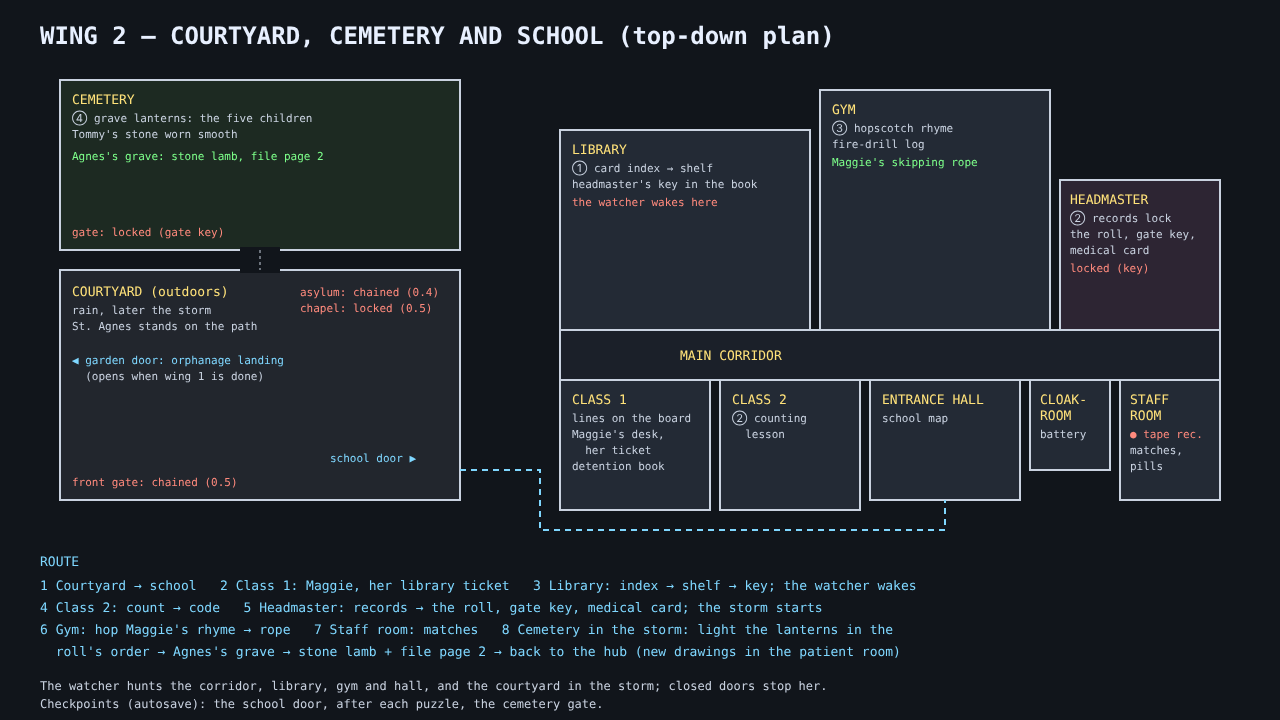
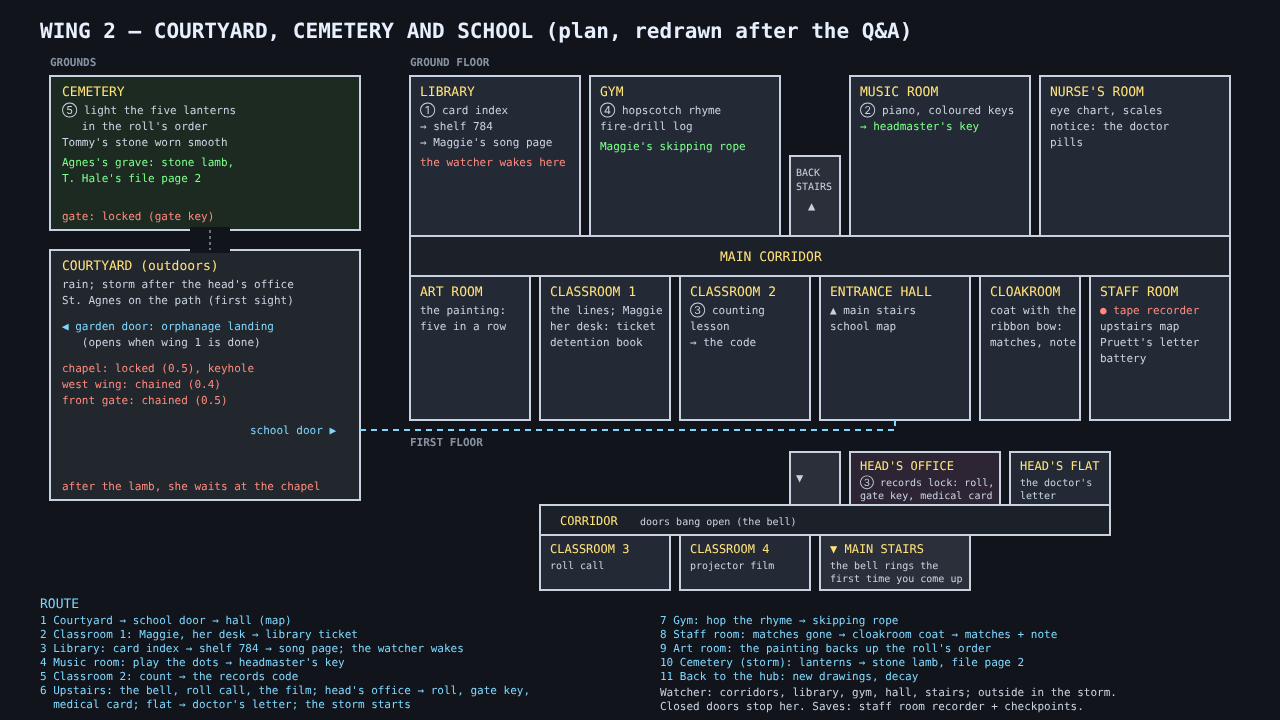
0.2.12: redraw the wing 2 plan after the Q&A
The plan now shows the grounds, the school's ground floor (library,
gym, back stairs, music room, nurse's room, art room, Classes 1-2,
entrance hall, cloakroom, staff room) and the first floor (corridor,
Classes 3-4, the head's office and flat, main stairs), with each room's
puzzle, documents and set piece, and the eleven-step route. For owner
approval before part A is built.

Claude-Session: https://claude.ai/code/session_01Kt2ajWcwzg7QhP3mDk3ZUu

diff --git a/docs/mockups/source-0.3/wing_map.html b/docs/mockups/source-0.3/wing_map.html
@@ -1,84 +1,152 @@
 <!doctype html><meta charset="utf-8">
 <style>body{margin:0;background:#11151b}svg{display:block}text{white-space:pre}</style>
-<!-- Top-down plan of wing 2 (courtyard, cemetery and school) for owner approval. -->
+<!-- Top-down plan of wing 2 for owner approval, redrawn 2026-10-14 after the Q&A: grounds,
+     the school's ground floor and first floor. -->
 <svg width="1280" height="720" viewBox="0 0 1280 720" font-family="DejaVu Sans Mono, monospace">
   <rect width="1280" height="720" fill="#11151b"/>
-  <text x="40" y="44" fill="#e8f0ff" font-size="24" font-weight="bold">WING 2 — COURTYARD, CEMETERY AND SCHOOL (top-down plan)</text>
-  <!-- Outdoors -->
+  <text x="40" y="38" fill="#e8f0ff" font-size="21" font-weight="bold">WING 2 — COURTYARD, CEMETERY AND SCHOOL (plan, redrawn after the Q&amp;A)</text>
+  <g fill="#8892a2" font-size="11" font-weight="bold">
+    <text x="50" y="66">GROUNDS</text><text x="410" y="66">GROUND FLOOR</text><text x="410" y="446">FIRST FLOOR</text>
+  </g>
+
+  <!-- Grounds -->
   <g stroke="#c9d2e0" stroke-width="2">
-    <rect x="60" y="80" width="400" height="170" fill="#1d2a22"/>
-    <rect x="60" y="270" width="400" height="230" fill="#22262d"/>
+    <rect x="50" y="76" width="310" height="154" fill="#1d2a22"/>
+    <rect x="50" y="250" width="310" height="250" fill="#22262d"/>
   </g>
-  <g stroke="#11151b" stroke-width="6"><line x1="240" y1="250" x2="280" y2="250"/><line x1="240" y1="270" x2="280" y2="270"/></g>
-  <line x1="260" y1="250" x2="260" y2="270" stroke="#c9d2e0" stroke-dasharray="3 3"/>
-  <!-- School -->
+  <g stroke="#11151b" stroke-width="6"><line x1="190" y1="230" x2="230" y2="230"/><line x1="190" y1="250" x2="230" y2="250"/></g>
+  <line x1="210" y1="230" x2="210" y2="250" stroke="#c9d2e0" stroke-dasharray="3 3"/>
+
+  <!-- Ground floor -->
   <g stroke="#c9d2e0" stroke-width="2" fill="#232a35">
-    <rect x="560" y="330" width="660" height="50" fill="#1b2029"/>
-    <rect x="560" y="130" width="250" height="200"/>
-    <rect x="820" y="90" width="230" height="240"/>
-    <rect x="1060" y="180" width="160" height="150" fill="#2d2533"/>
-    <rect x="560" y="380" width="150" height="130"/>
-    <rect x="720" y="380" width="140" height="130"/>
-    <rect x="870" y="380" width="150" height="120"/>
-    <rect x="1030" y="380" width="80" height="90"/>
-    <rect x="1120" y="380" width="100" height="120"/>
+    <rect x="410" y="236" width="820" height="40" fill="#1b2029"/>
+    <rect x="410" y="76" width="170" height="160"/>
+    <rect x="590" y="76" width="190" height="160"/>
+    <rect x="790" y="156" width="50" height="80" fill="#2a2f3a"/>
+    <rect x="850" y="76" width="180" height="160"/>
+    <rect x="1040" y="76" width="190" height="160"/>
+    <rect x="410" y="276" width="120" height="144"/>
+    <rect x="540" y="276" width="130" height="144"/>
+    <rect x="680" y="276" width="130" height="144"/>
+    <rect x="820" y="276" width="150" height="144"/>
+    <rect x="980" y="276" width="100" height="144"/>
+    <rect x="1090" y="276" width="140" height="144"/>
   </g>
-  <path d="M460 470 H 540 V 530 H 945 V 500" fill="none" stroke="#7fd7ff" stroke-width="2" stroke-dasharray="6 5"/>
+
+  <!-- First floor -->
+  <g stroke="#c9d2e0" stroke-width="2" fill="#232a35">
+    <rect x="540" y="505" width="570" height="30" fill="#1b2029"/>
+    <rect x="790" y="452" width="50" height="53" fill="#2a2f3a"/>
+    <rect x="850" y="452" width="150" height="53" fill="#2d2533"/>
+    <rect x="1010" y="452" width="100" height="53"/>
+    <rect x="540" y="535" width="130" height="55"/>
+    <rect x="680" y="535" width="130" height="55"/>
+    <rect x="820" y="535" width="150" height="55" fill="#2a2f3a"/>
+  </g>
+
+  <!-- School door: courtyard to the entrance hall -->
+  <path d="M360 430 H 895 V 420" fill="none" stroke="#7fd7ff" stroke-width="2" stroke-dasharray="6 5"/>
+
   <g fill="#ffe27a" font-size="13">
-    <text x="72" y="104">CEMETERY</text>
-    <text x="72" y="122" fill="#c9d2e0" font-size="11">④ grave lanterns: the five children</text>
-    <text x="72" y="138" fill="#c9d2e0" font-size="11">Tommy's stone worn smooth</text>
-    <text x="72" y="160" fill="#7dff8a" font-size="11">Agnes's grave: stone lamb, file page 2</text>
-    <text x="72" y="236" fill="#ff8a7d" font-size="11">gate: locked (gate key)</text>
-    <text x="72" y="296">COURTYARD (outdoors)</text>
-    <text x="72" y="314" fill="#c9d2e0" font-size="11">rain, later the storm</text>
-    <text x="72" y="330" fill="#c9d2e0" font-size="11">St. Agnes stands on the path</text>
-    <text x="72" y="364" fill="#7fd7ff" font-size="11">◀ garden door: orphanage landing</text>
-    <text x="72" y="380" fill="#c9d2e0" font-size="11">  (opens when wing 1 is done)</text>
-    <text x="300" y="296" fill="#ff8a7d" font-size="11">asylum: chained (0.4)</text>
-    <text x="300" y="312" fill="#ff8a7d" font-size="11">chapel: locked (0.5)</text>
-    <text x="72" y="486" fill="#ff8a7d" font-size="11">front gate: chained (0.5)</text>
-    <text x="330" y="462" fill="#7fd7ff" font-size="11">school door ▶</text>
-    <text x="680" y="360">MAIN CORRIDOR</text>
-    <text x="572" y="154">LIBRARY</text>
-    <text x="572" y="172" fill="#c9d2e0" font-size="11">① card index → shelf</text>
-    <text x="572" y="188" fill="#c9d2e0" font-size="11">headmaster's key in the book</text>
-    <text x="572" y="206" fill="#ff8a7d" font-size="11">the watcher wakes here</text>
-    <text x="832" y="114">GYM</text>
-    <text x="832" y="132" fill="#c9d2e0" font-size="11">③ hopscotch rhyme</text>
-    <text x="832" y="148" fill="#c9d2e0" font-size="11">fire-drill log</text>
-    <text x="832" y="166" fill="#7dff8a" font-size="11">Maggie's skipping rope</text>
-    <text x="1070" y="204">HEADMASTER</text>
-    <text x="1070" y="222" fill="#c9d2e0" font-size="11">② records lock</text>
-    <text x="1070" y="238" fill="#c9d2e0" font-size="11">the roll, gate key,</text>
-    <text x="1070" y="254" fill="#c9d2e0" font-size="11">medical card</text>
-    <text x="1070" y="272" fill="#ff8a7d" font-size="11">locked (key)</text>
-    <text x="572" y="404">CLASS 1</text>
-    <text x="572" y="422" fill="#c9d2e0" font-size="11">lines on the board</text>
-    <text x="572" y="438" fill="#c9d2e0" font-size="11">Maggie's desk,</text>
-    <text x="572" y="454" fill="#c9d2e0" font-size="11">  her ticket</text>
-    <text x="572" y="470" fill="#c9d2e0" font-size="11">detention book</text>
-    <text x="732" y="404">CLASS 2</text>
-    <text x="732" y="422" fill="#c9d2e0" font-size="11">② counting</text>
-    <text x="732" y="438" fill="#c9d2e0" font-size="11">  lesson</text>
-    <text x="882" y="404">ENTRANCE HALL</text>
-    <text x="882" y="422" fill="#c9d2e0" font-size="11">school map</text>
-    <text x="1040" y="404">CLOAK-</text>
-    <text x="1040" y="420">ROOM</text>
-    <text x="1040" y="438" fill="#c9d2e0" font-size="11">battery</text>
-    <text x="1130" y="404">STAFF</text>
-    <text x="1130" y="420">ROOM</text>
-    <text x="1130" y="438" fill="#ff8a7d" font-size="11">● tape rec.</text>
-    <text x="1130" y="454" fill="#c9d2e0" font-size="11">matches,</text>
-    <text x="1130" y="470" fill="#c9d2e0" font-size="11">pills</text>
+    <text x="62" y="96">CEMETERY</text>
+    <text x="62" y="270">COURTYARD (outdoors)</text>
+    <text x="420" y="96">LIBRARY</text>
+    <text x="600" y="96">GYM</text>
+    <text x="860" y="96">MUSIC ROOM</text>
+    <text x="1050" y="96">NURSE'S ROOM</text>
+    <text x="720" y="261">MAIN CORRIDOR</text>
+    <text x="420" y="296">ART ROOM</text>
+    <text x="550" y="296">CLASSROOM 1</text>
+    <text x="690" y="296">CLASSROOM 2</text>
+    <text x="830" y="296">ENTRANCE HALL</text>
+    <text x="990" y="296">CLOAKROOM</text>
+    <text x="1100" y="296">STAFF ROOM</text>
+    <text x="860" y="470" font-size="12">HEAD'S OFFICE</text>
+    <text x="1020" y="470" font-size="12">HEAD'S FLAT</text>
+    <text x="550" y="553" font-size="12">CLASSROOM 3</text>
+    <text x="690" y="553" font-size="12">CLASSROOM 4</text>
+    <text x="830" y="553" font-size="12">▼ MAIN STAIRS</text>
+    <text x="560" y="525" font-size="12">CORRIDOR</text>
   </g>
-  <g fill="#7fd7ff" font-size="13">
-    <text x="40" y="566">ROUTE</text>
-    <text x="40" y="590">1 Courtyard → school   2 Class 1: Maggie, her library ticket   3 Library: index → shelf → key; the watcher wakes</text>
-    <text x="40" y="612">4 Class 2: count → code   5 Headmaster: records → the roll, gate key, medical card; the storm starts</text>
-    <text x="40" y="634">6 Gym: hop Maggie's rhyme → rope   7 Staff room: matches   8 Cemetery in the storm: light the lanterns in the</text>
-    <text x="40" y="656">  roll's order → Agnes's grave → stone lamb + file page 2 → back to the hub (new drawings in the patient room)</text>
-    <text x="40" y="690" fill="#c9d2e0" font-size="12">The watcher hunts the corridor, library, gym and hall, and the courtyard in the storm; closed doors stop her.</text>
-    <text x="40" y="708" fill="#c9d2e0" font-size="12">Checkpoints (autosave): the school door, after each puzzle, the cemetery gate.</text>
+  <g fill="#c9d2e0" font-size="11">
+    <text x="62" y="114">⑤ light the five lanterns</text>
+    <text x="62" y="130">   in the roll's order</text>
+    <text x="62" y="146">Tommy's stone worn smooth</text>
+    <text x="62" y="288">rain; storm after the head's office</text>
+    <text x="62" y="304">St. Agnes on the path (first sight)</text>
+    <text x="62" y="346">   (opens when wing 1 is done)</text>
+    <text x="420" y="114">① card index</text>
+    <text x="420" y="130">→ shelf 784</text>
+    <text x="420" y="146">→ Maggie's song page</text>
+    <text x="600" y="114">④ hopscotch rhyme</text>
+    <text x="600" y="130">fire-drill log</text>
+    <text x="860" y="114">② piano, coloured keys</text>
+    <text x="1050" y="114">eye chart, scales</text>
+    <text x="1050" y="130">notice: the doctor</text>
+    <text x="1050" y="146">pills</text>
+    <text x="796" y="176" font-size="10">BACK</text><text x="796" y="190" font-size="10">STAIRS</text><text x="808" y="210" font-size="12">▲</text>
+    <text x="420" y="314">the painting:</text>
+    <text x="420" y="330">five in a row</text>
+    <text x="550" y="314">the lines; Maggie</text>
+    <text x="550" y="330">her desk: ticket</text>
+    <text x="550" y="346">detention book</text>
+    <text x="690" y="314">③ counting</text>
+    <text x="690" y="330">lesson</text>
+    <text x="690" y="346">→ the code</text>
+    <text x="830" y="314">▲ main stairs</text>
+    <text x="830" y="330">school map</text>
+    <text x="990" y="314">coat with the</text>
+    <text x="990" y="330">ribbon bow:</text>
+    <text x="990" y="346">matches, note</text>
+    <text x="1100" y="330">upstairs map</text>
+    <text x="1100" y="346">Pruett's letter</text>
+    <text x="1100" y="362">battery</text>
+    <text x="860" y="486" font-size="10">③ records lock: roll,</text>
+    <text x="860" y="499" font-size="10">gate key, medical card</text>
+    <text x="1020" y="486" font-size="10">the doctor's</text>
+    <text x="1020" y="499" font-size="10">letter</text>
+    <text x="550" y="569" font-size="10">roll call</text>
+    <text x="690" y="569" font-size="10">projector film</text>
+    <text x="830" y="569" font-size="10">the bell rings the</text>
+    <text x="830" y="582" font-size="10">first time you come up</text>
+    <text x="796" y="482" font-size="12">▼</text>
+    <text x="640" y="525" font-size="10">doors bang open (the bell)</text>
+  </g>
+  <g fill="#7dff8a" font-size="11">
+    <text x="62" y="166">Agnes's grave: stone lamb,</text>
+    <text x="62" y="182">T. Hale's file page 2</text>
+    <text x="600" y="150">Maggie's skipping rope</text>
+    <text x="860" y="130">→ headmaster's key</text>
+  </g>
+  <g fill="#ff8a7d" font-size="11">
+    <text x="62" y="220">gate: locked (gate key)</text>
+    <text x="62" y="372">chapel: locked (0.5), keyhole</text>
+    <text x="62" y="388">west wing: chained (0.4)</text>
+    <text x="62" y="404">front gate: chained (0.5)</text>
+    <text x="420" y="166">the watcher wakes here</text>
+    <text x="1100" y="314">● tape recorder</text>
+    <text x="62" y="490">after the lamb, she waits at the chapel</text>
+  </g>
+  <g fill="#7fd7ff" font-size="11">
+    <text x="62" y="330">◀ garden door: orphanage landing</text>
+    <text x="250" y="434">school door ▶</text>
+  </g>
+
+  <g fill="#7fd7ff" font-size="11">
+    <text x="40" y="608" font-size="13">ROUTE</text>
+    <text x="40" y="624">1 Courtyard → school door → hall (map)</text>
+    <text x="40" y="638">2 Classroom 1: Maggie, her desk → library ticket</text>
+    <text x="40" y="652">3 Library: card index → shelf 784 → song page; the watcher wakes</text>
+    <text x="40" y="666">4 Music room: play the dots → headmaster's key</text>
+    <text x="40" y="680">5 Classroom 2: count → the records code</text>
+    <text x="40" y="694">6 Upstairs: the bell, roll call, the film; head's office → roll, gate key,</text>
+    <text x="40" y="708">  medical card; flat → doctor's letter; the storm starts</text>
+    <text x="660" y="624">7 Gym: hop the rhyme → skipping rope</text>
+    <text x="660" y="638">8 Staff room: matches gone → cloakroom coat → matches + note</text>
+    <text x="660" y="652">9 Art room: the painting backs up the roll's order</text>
+    <text x="660" y="666">10 Cemetery (storm): lanterns → stone lamb, file page 2</text>
+    <text x="660" y="680">11 Back to the hub: new drawings, decay</text>
+    <text x="660" y="696" fill="#c9d2e0">Watcher: corridors, library, gym, hall, stairs; outside in the storm.</text>
+    <text x="660" y="710" fill="#c9d2e0">Closed doors stop her. Saves: staff room recorder + checkpoints.</text>
   </g>
 </svg>

diff --git a/CHANGELOG.md b/CHANGELOG.md
@@ -2,6 +2,7 @@
 
 Newest first. One line per change.
 
+- 0.2.12 — Wing 2 plan redrawn after the Q&A (docs/mockups/stills-0.3/wing_map.png, for owner approval): the grounds, the school's ground floor (library, gym, back stairs, music room, nurse's room, art room, Classes 1–2, entrance hall, cloakroom, staff room) and first floor (corridor, Classes 3–4, the head's office and flat, main stairs), with each room's puzzle, documents and set piece, and the eleven-step route. Not in the game yet.
 - 0.2.11 — Sound list for 0.3 updated after the owner's Q&A (docs/SOUNDS_0.3.md): the watcher's breath and the projector are now priority 1, the piano needs no files (its notes are made by the game), and new rows for the bell set piece's doors, the records lock, the filing drawer, matches, snuffed lanterns, chains, coat pockets, stairs and floorboards. Priority 1 is 23 sounds (49 files).
 - 0.2.10 — Wing 2 content sheet for owner approval (Claude Doc, linked in docs/DESIGN_0.3.md): the puzzle answers on Normal, names, Maggie's four rhymes (English, and new Greek rhymes carrying the same clues), her lines and the watcher-catch lines, the chalk on the boards, ten documents plus T. Hale's file page 2, new items, prompts, messages, room names and gravestones, all in English and Greek, with a checklist of open points. Not in the game yet.
 - 0.2.9 — Owner request: marks on the paper map (approved still ui_mapMarks). Red X for you, a cassette for each tape recorder once you have been near it, a green house for safe places (the stairs up to your room; hiding rooms in wing 2), and a blue ring for each puzzle from the first time you try it until it is solved. A key in the corner explains them in English and Greek; room names shrink to fit small rooms. Three tests: the recorder and safe marks, a puzzle ring that appears when tried and goes when solved, and the map drawing in both languages without errors.

diff --git a/docs/DESIGN_0.3.md b/docs/DESIGN_0.3.md
@@ -10,8 +10,8 @@ the first set on 2026-10-13, the rest in a question-and-answer session on 2026-1
   to read. The hint stays a hint.
 - **The watcher's catch:** a short grab (her face fills the view, a stone hand), then the VHS
   rewind to the last checkpoint, with a ghost child's whisper about what happened.
-- **Plan:** the map `wing_map.png` was approved as drawn, then extended on 2026-10-14 (below). The
-  map is redrawn with the new rooms before the first part is built.
+- **Plan:** the map `wing_map.png` was approved as drawn, then extended on 2026-10-14 (below) and
+  redrawn with the new rooms in 0.2.12 (waiting for the owner's OK before part A is built).
 
 ## Structure
 - A garden door on the orphanage landing opens once wing 1 is done and leads to the
